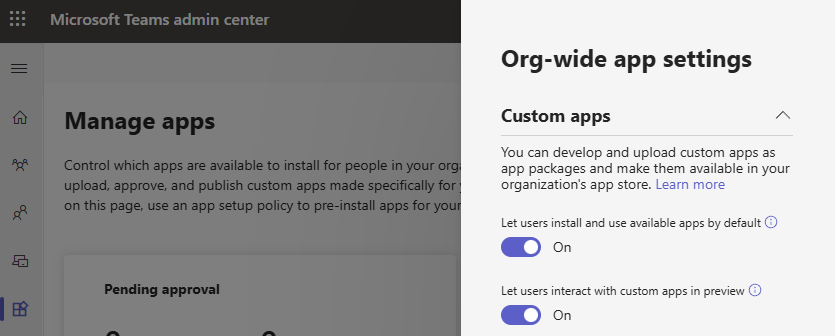
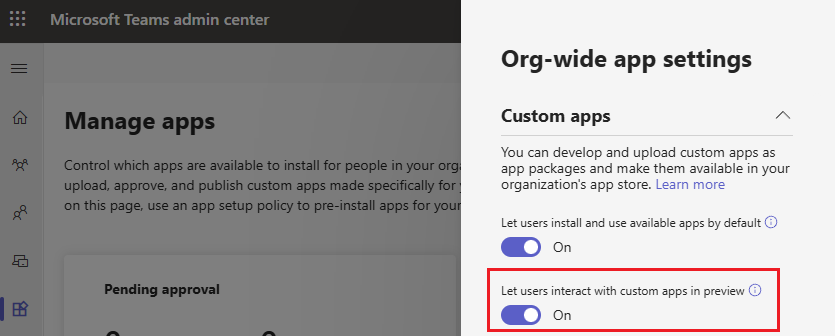
Review updates

Changed region(s): [[0.5916, 0.7738, 0.9341, 1.0], [0.5605, 0.8036, 0.5916, 0.9821]]

diff --git a/docs/manage.md b/docs/manage.md
@@ -22,41 +22,40 @@ The following table summarizes admin management tools for Copilot extensibility 
 
 Copilot extensions that are published to the Microsoft Commercial Marketplace (AppSource) and acquired from the in-product store are centrally managed from the **Integrated Apps** section of **Microsoft admin center** ([admin.microsoft.com](https://admin.microsoft.com)). This is the case regardless of how the extension was built—with Copilot Studio, Teams Toolkit, or another IDE.
 
-*Global Admin* and *Azure Application Admin* roles can deploy and uninstall apps, manage which apps are available to which users, and block apps from publish in Microsoft admin center.
+*Global Admin* and *Azure Application Admin* roles can deploy and uninstall apps, manage which apps are available to which users, and block apps in Microsoft admin center.
 
 :::image type="content" source="./assets/images/mac-integrated-apps.png" alt-text="Screenshot of the 'Integrated apps' section of Microsoft admin center":::
 
 To learn more about managing published Copilot extensions, see [Manage extensions for Copilot in Microsoft admin center](/microsoft-365/admin/manage/manage-plugins-for-copilot-in-integrated-apps?context=/microsoft-365-copilot/extensibility/context).
 
-## Manage extensions built with Teams Toolkit and other IDEs
+## Manage extensions built with Teams Toolkit
 
-Line-of-business apps for Microsoft 365, including Copilot extensions, that are published to your organization or for personal use are called **Custom apps**. Admins control who in your tenant can upload custom apps (either for publishing to the organization, or for personal use) from Teams admin center. Settings to allow the upload and use of custom apps are *only available* in **Teams admin center**. 
+Line-of-business apps for Microsoft 365, including Copilot extensions, that are published to your organization or for personal use are called **Custom apps**. Admins control who in your tenant can upload custom apps for personal use from Teams admin center. Settings to allow the upload and use of custom apps are *only available* in **Teams admin center**. 
 
-To allow non-admin users in a tenant to submit custom apps to their organization or upload for personal use, the following setting must be enabled. From Teams admin center, select Teams apps > Setup policies > **Global (Org-wide default)** and enable **Upload custom apps**:
+To allow non-admin users in a tenant to upload custom apps for personal use, the following setting must be enabled. From Teams admin center, select Teams apps > Setup policies > **Global (Org-wide default)** and enable **Upload custom apps**:
 
 :::image type="content" source="./assets/images/tac-setup-policies.png" alt-text="Screenshot of org-wide setup policy with 'Upload custom apps' toggle enabled in Teams admin center":::
 
-To allow users in an organization to interact with custom apps, the following settings must be enabled. From Teams admin center, select Teams apps > Manage apps > Actions (dropdown control) > **Org-wide app settings**. Scroll to the **Custom apps** section and enable the following toggles as needed:
+To allow users in an organization to interact with custom apps uploaded for personal use, the following setting must be enabled. From Teams admin center, select Teams apps > Manage apps > Actions (dropdown control) > **Org-wide app settings**. Scroll to the **Custom apps** section and enable **Let users interact with custom apps in preview**:
 
-:::image type="content" source="./assets/images/tac-custom-apps.png" alt-text="Screenshot of the 'Custom apps' settings in Teams admin center with both toggles enabled":::
-
-- **Let users install and use available apps by default**: Custom apps published to the organization are assigned to all users by default.
-- **Let users interact with custom apps in preview**: All users are allowed to use custom apps for personal use by default.
+:::image type="content" source="./assets/images/tac-custom-apps.png" alt-text="Screenshot of the 'Custom apps' settings in Teams admin center with 'Let users interact with custom apps in preview' enabled":::
 
 For more granular per-user and per-team settings, admins can create [app setup policies for custom apps](/microsoftteams/teams-custom-app-policies-and-settings#app-setup-policy-settings-for-custom-apps) in Teams admin center. For custom apps published to the organization, per-user access can be centrally managed from Microsoft admin center, as described in the next section.
 
 ### Extensions published to your organization
 
-Once published to your organization, custom apps are centrally managed from the [**Integrated Apps**](/microsoft-365/admin/manage/manage-plugins-for-copilot-in-integrated-apps?context=/microsoft-365-copilot/extensibility/context) section of **Microsoft admin center** ([admin.microsoft.com](https://admin.microsoft.com)), just like third-party apps acquired from the store. The only difference is that end-users will see these custom, line-of-business apps and extensions labeled with **Built for your org** in the in-product app store.
+Once [published](./publish.md) to your organization, Copilot extensions (as *custom apps*) are centrally managed from the [**Integrated Apps**](/microsoft-365/admin/manage/manage-plugins-for-copilot-in-integrated-apps?context=/microsoft-365-copilot/extensibility/context) section of **Microsoft admin center** ([admin.microsoft.com](https://admin.microsoft.com)), just like third-party apps acquired from the store. The only difference is that end-users will see these custom, line-of-business apps and extensions labeled with **Built for your org** in the in-product app store.
 
 From Microsoft admin center, admins can:
 
 - Enable/disable Copilot extensibility for the whole organization through Microsoft 365 admin center settings.
 - Make available an app with extensions for Copilot to specific users or groups.
-- Deploy or remove apps with extensions for Copilot for the whole organization or specific users or groups.
+- Install and uninstall apps with extensions for Copilot for the whole organization or specific users or groups.
 - Block or unblock apps with extensions for Copilot for the whole organization.
 
 For more info, see [Manage extensions for Copilot in the Microsoft 365 admin center](/microsoft-365/admin/manage/manage-plugins-for-copilot-in-integrated-apps?context=/microsoft-365-copilot/extensibility/context#manage-extensions-for-copilot-in-the-microsoft-365-admin-center).
+
+
 
 Admins can also upload, deploy, and block apps from Teams admin center too, however be aware that the [settings in Teams admin center override](/microsoft-365/admin/manage/teams-apps-work-on-outlook-and-m365#what-happens-to-your-settings-on-teams-and-outlook) those made in Microsoft admin center for apps running in Teams. 
 Best practice is to manage Copilot extensions from Microsoft admin center wherever possible, then fine-tune any settings in Teams admin center that aren't available in Microsoft admin center or that are only applicable when running apps in Teams.
@@ -97,7 +96,7 @@ Once ready for distribution, you can [publish your extension from Copilot Studio
 
 Upon submission to the organizational catalog, admins manage approval and deployment for [Copilot Studio extensions in Microsoft admin center](/microsoft-365/admin/manage/manage-plugins-for-copilot-in-integrated-apps?context=microsoft-365-copilot/extensibility/context#publish-extensions-for-copilot).
 
-Copilot extensions published for personal use or sharing can be managed by the extension creator in Copilot Studio.
+Copilot extensions published for personal use or sharing can be managed by the extension creator in Copilot Studio from the [Availability Options](/microsoft-copilot-studio/microsoft-copilot-extend-copilot-extensions?context=/microsoft-365-copilot/extensibility/context#availablity-options) page.
 
 ## See also
 
